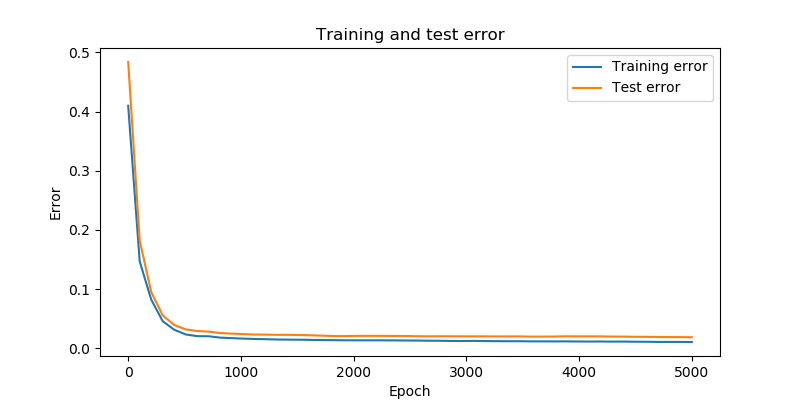
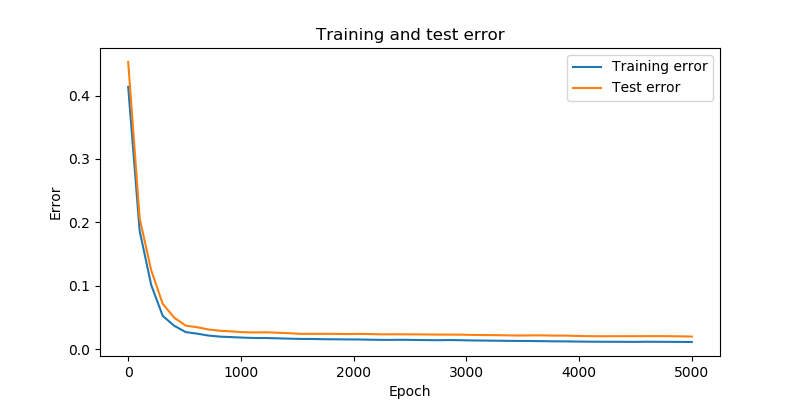
add final touches assignment 3

diff --git a/assignment3/main.py b/assignment3/main.py
@@ -1,30 +1,34 @@
 from scr.functions import *
-from scr.functions import *
+from scr.settings import *
 import matplotlib.pyplot as plt
 
-# some settings
-N_EPOCHS = 5000
+# for plotss
 epoch = 0
 x = np.linspace(0, N_EPOCHS, int(N_EPOCHS/100))
 
 ###################### General Test of the network ###########################
 
 # load data
-xi_train, tau_train, xi_test, tau_test = load_data(n_train=500, n_test=100)
+xi_train, tau_train, xi_test, tau_test = load_data(n_train=P, n_test=Q)
 
 # perform SGD
 errors = []
 test_errors = []
 print("----------- train and test network -------------")
-for i in range(5):
+for i in range(N_RUNS):
     print("---------- run ", i, "---------------")
     w, err, test_err = sgd_training(xi_train=xi_train, tau_train=tau_train, xi_test=xi_test,
-                                    tau_test=tau_test, n_epochs=N_EPOCHS)
+                                    tau_test=tau_test, n_epochs=N_EPOCHS, learning_rate=LR, k=K)
     errors.append(err)
     test_errors.append(test_err)
 
 mean_train_error = np.mean(errors, 0)
 mean_test_error = np.mean(test_errors,0)
+
+print("train error: ", mean_train_error[len(mean_train_error)-1], "test error: ", 
+      mean_test_error[len(mean_test_error)-1])
+
+np.savetxt('w.txt', w) # to load again use w = np.loadtxt('w.txt', delimiter=' ')
 
 # plot
 plt.rcParams['figure.figsize'] = (8, 4)
@@ -34,44 +38,45 @@ plt.legend()
 plt.title("Training and test error")
 plt.xlabel("Epoch")
 plt.ylabel("Error")
-#plt.savefig('traintest.png') 
+plt.savefig('traintest.png') 
 plt.show()
 
-############################ Test different P's ##############################
+# ############################ Test different P's ##############################
 
 print('-------------- Test different Ps -------------------')
-P = [20, 50, 200, 500, 1000, 2000]
+P_sizes = [20, 50, 200, 500, 1000, 2000]
 train_errors = []
 test_errors=[]
-for n_train in P:
+for n_train in P_sizes:
     print('---------------- P = ', n_train, ' ------------------')
-    xi_train, tau_train, xi_test, tau_test = load_data(n_train=n_train, n_test=200)
+    xi_train, tau_train, xi_test, tau_test = load_data(n_train=n_train, n_test=Q)
     w, err, test_err = sgd_training(xi_train=xi_train, tau_train=tau_train, xi_test=xi_test,
-                                    tau_test=tau_test, n_epochs=N_EPOCHS)
+                                    tau_test=tau_test, n_epochs=N_EPOCHS, learning_rate=LR, k=K)
     if n_train is 20:
         train_errors = err
         test_errors = test_err   
     else:
         train_errors = np.vstack([train_errors, err])
         test_errors = np.vstack([test_errors, test_err])
+    print("train error: ", err[len(err)-1], "test error: ", test_err[len(test_err)-1])
 
 plt.rcParams['figure.figsize'] = (6, 4)
 for i in range(np.shape(train_errors)[0]):    
     plt.plot(x, train_errors[i,:])
-plt.legend(['P=20', 'P=50', 'P=50', 'P=200', 'P=500', 'P=1000', 'P=2000'])
+plt.legend(['P=20', 'P=50', 'P=100', 'P=200', 'P=500', 'P=1000', 'P=2000'])
 plt.title("Training error for different P's")
 plt.xlabel("Epoch")
 plt.ylabel("Error")
-#plt.savefig('train_differentp.png') 
+plt.savefig('train_differentp.png') 
 plt.show()
 
 for i in range(np.shape(test_errors)[0]):    
     plt.plot(x, test_errors[i,:])
-plt.legend(['P=20', 'P=50', 'P=50', 'P=200', 'P=500', 'P=1000', 'P=2000'])
+plt.legend(['P=20', 'P=50', 'P=100', 'P=200', 'P=500', 'P=1000', 'P=2000'])
 plt.title("Test error for different P's")
 plt.xlabel("Epoch")
 plt.ylabel("Error")
-#plt.savefig('test_differentp.png') 
+plt.savefig('test_differentp.png') 
 plt.show()
 
 ########################### Test different constants learning rates ###########################
@@ -82,15 +87,16 @@ train_errors = []
 test_errors=[]
 for lr in learning_rates:
     print('---------------- lr = ', lr, ' ------------------')
-    xi_train, tau_train, xi_test, tau_test = load_data(n_train=800, n_test=200)
+    xi_train, tau_train, xi_test, tau_test = load_data(n_train=P, n_test=Q)
     w, err, test_err = sgd_training(xi_train=xi_train, tau_train=tau_train, xi_test=xi_test,
-                                    tau_test=tau_test, n_epochs=N_EPOCHS, learning_rate=lr)
+                                    tau_test=tau_test, n_epochs=N_EPOCHS, learning_rate=lr, k=K)
     if lr is learning_rates[0]:
         train_errors = err
         test_errors = test_err   
     else:
         train_errors = np.vstack([train_errors, err])
         test_errors = np.vstack([test_errors, test_err])
+    print("train error: ", err[len(err)-1], "test error: ", test_err[len(test_err)-1])
 
 for i in range(np.shape(train_errors)[0]):    
     plt.plot(x, train_errors[i,:])
@@ -98,7 +104,7 @@ plt.legend(['lr=0.001', 'lr=0.005', 'lr=0.01', 'lr=0.05', 'lr=0.1', 'lr=0.5'])
 plt.title("Training error for different learning rates")
 plt.xlabel("Epoch")
 plt.ylabel("Error")
-#plt.savefig('train_differentlr.png') 
+plt.savefig('train_differentlr.png') 
 plt.show()
 
 for i in range(np.shape(test_errors)[0]):    
@@ -107,7 +113,7 @@ plt.legend(['lr=0.001', 'lr=0.005', 'lr=0.01', 'lr=0.05', 'lr=0.1', 'lr=0.5'])
 plt.title("Test error for different learning rates")
 plt.xlabel("Epoch")
 plt.ylabel("Error")
-#plt.savefig('test_differentlr.png') 
+plt.savefig('test_differentlr.png') 
 plt.show()
 
 # add learning_rate(t) = a/(b+t)?

diff --git a/assignment3/scr/settings.py b/assignment3/scr/settings.py
@@ -1,2 +1,6 @@
 N_EPOCHS = 5000
 K = 2
+LR = 0.05
+Q = 200
+P = 500
+N_RUNS = 5

diff --git a/assignment3/test.py b/assignment3/test.py
@@ -1,0 +1,4 @@
+import numpy as np
+
+
+print(w)
